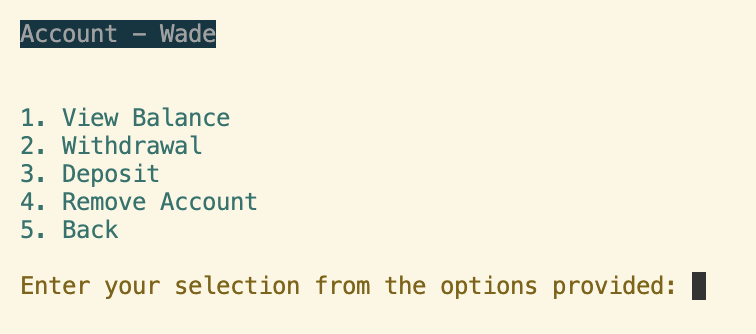
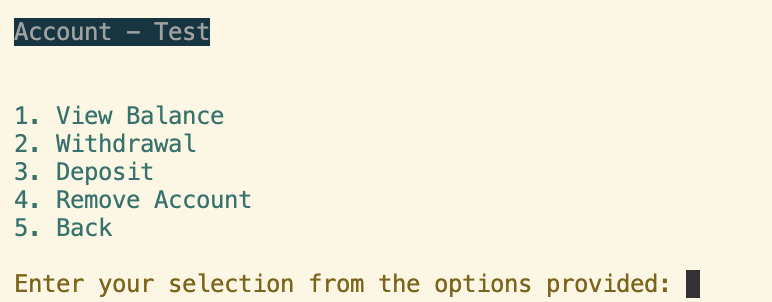
userguide created with screenshots

Changed region(s): [[0.0, 0.8046, 0.9431, 1.0], [0.0, 0.3278, 0.3347, 0.8046], [0.0, 0.0596, 0.3042, 0.1788]]

diff --git a/docs/user_guide/user_guide.md b/docs/user_guide/user_guide.md
@@ -2,3 +2,66 @@
 
 ## Terminal Bank
 
+Welcome to the user guide for the Terminal Bank application. The following is a standard run through of what the application will look like and its major features. This user guide will also highlight some potential barriers you may encounter.
+
+### Welcome Menu
+![Welcome Menu](/docs/user_guide/open_menu.png)
+This is the initial screen once opening the application. As you can see there are 3 options provided here each labelled '1', '2' and '3'. To choose an option just type the corresponding number into the terminal and press 'Enter'. Firstly, lets create an account. Type '1' into your terminal and press 'Enter'.
+
+### Creating an account
+![Create Account](/docs/user_guide/name_pin.png)
+After selecting to create an account, you will be immediately asked to enter your name and then a 4 digit PIN. In this case we have entered the name 'Test' and the PIN '0000' into the terminal. 
+Please note that if the PIN input does not contain only 4 digits, the error message below will display.
+![Invalin PIN](/docs/user_guide/invalid_pin.png)
+Once you have correctly entered your name and a valid PIN, a message will display, confirming you have opened an account. 
+![open account](/docs/user_guide/open_acc_print.png)
+You will notice that a bonus $100 has been added to the balance to be able to utilise any feature immediately. 
+
+### Accessing your account
+![Welcome Menu](/docs/user_guide/open_menu.png)
+Now back at the start, lets access the account we have just opened. Enter '2' into the terminal.
+
+![Accessed Menu](/docs/user_guide/accessed_menu.png)
+We've made it to the main menu inside the account. From here we dan select all the major features of the application. 
+
+### Viewing your balance
+![View balance](/docs/user_guide/balance_view.png)
+By entering '1' from the access menu we can view our current balance. As we have just created the account it will display $100, however interaction with other features may change your balance in the future. 
+
+### Withdraw
+Now lets withdraw some imaginary funds. Enter '2' from the access menu and you will be asked to input an amount.
+![enter amount](/docs/user_guide/enter_amount.png)
+For example, lets witdraw $50 by inputting the number '50' into our terminal. Success!
+![withdraw](/docs/user_guide/print_withdraw.png)
+However, if you attempted to input a number greater than what you have in your balance you would receive a message stating "Insufficient Funds".
+![Insufficient](/docs/user_guide/insufficient_err.png)
+
+Anyways, we have $50 in our account, lets put some more in.
+
+### Deposit
+Back at the access menu, we can enter '3' to utilise the deposit feature. 
+![deposit](/docs/user_guide/print_deposit.png)
+Here we entered the number '25' and deposited $25. As you can see our new total balance is $75.
+
+There may be an error encountered when inputting an amount value. Only digits will be accepted otherwise you will see displayed an error message. If this happens, no problems! Just try again.
+![err type](/docs/user_guide/type_err.png)
+
+### Removing an account
+While in the access menu you can remove your current account. Enter '4' in the menu. You will then be asked to confirm your decision by inputing Y or N. 
+If you enter Y:
+![removal Y](/docs/user_guide/removal_y_msg.png)
+You have successfully removed your account and your total balance will be displayed. The application will take you back to the opening menu.
+
+If you enter N:
+![removal N](/docs/user_guide/removal_n_msg.png)
+Your account remains with the balance in place.
+
+### Another poosible error
+![invalid option](/docs/user_guide/invalid_option_err.png)
+Before we exit return to the opening menu and exit, there is another possible error that can be encountered. While in menus, if an option that is not displayed is entered, you will receive the error message above and you will be returned to the menu you came from. 
+
+### Returning to opening menu and exiting. 
+![Accessed Menu](/docs/user_guide/accessed_menu.png)
+
+
+![Welcome Menu](/docs/user_guide/open_menu.png)
